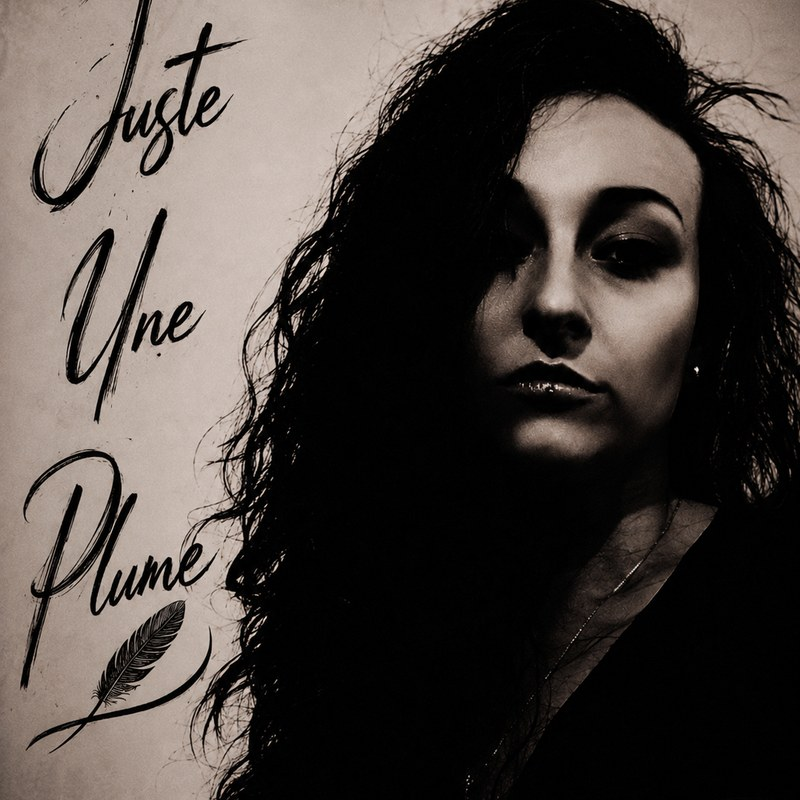
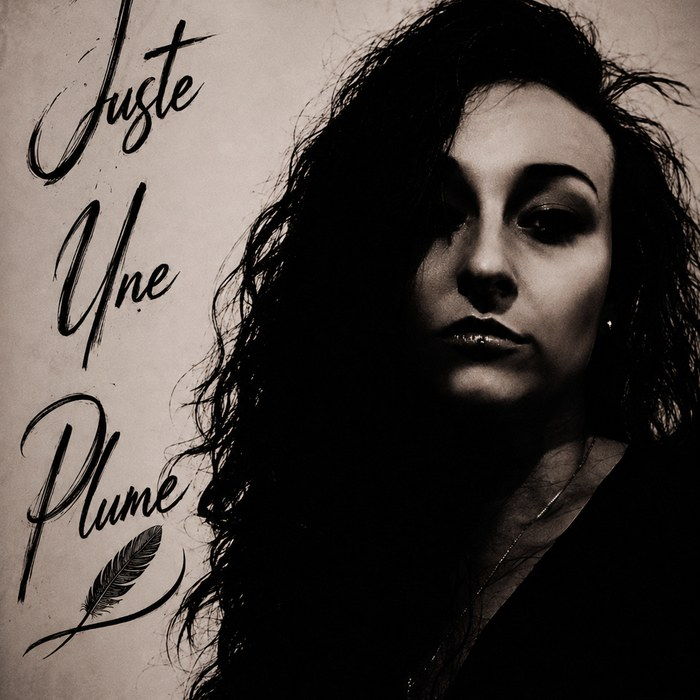
Add files via upload
fix maj v6.4.5 mpbp440 2026

diff --git a/sw.js b/sw.js
@@ -1,2 +1,10 @@
-/* MPBP440 Service Worker — V6.4.4 */
-const MPBP_CACHE="mpbp440-pwa-v6-4-4";const CORE_ASSETS=["/","/index.html","/site.css","/site.js","/music/index.html","/mpbp-tv/index.html","/manifest.webmanifest"];self.addEventListener("install",e=>{self.skipWaiting();e.waitUntil(caches.open(MPBP_CACHE).then(c=>c.addAll(CORE_ASSETS).catch(()=>{})))});self.addEventListener("activate",e=>{e.waitUntil(caches.keys().then(k=>Promise.all(k.filter(x=>x!==MPBP_CACHE).map(x=>caches.delete(x)))).then(()=>self.clients.claim()))});self.addEventListener("fetch",e=>{if(e.request.method!=="GET")return;e.respondWith(fetch(e.request,{cache:"no-store"}).then(r=>{let cp=r.clone();caches.open(MPBP_CACHE).then(c=>c.put(e.request,cp)).catch(()=>{});return r}).catch(()=>caches.match(e.request)))});
+/* MPBP440 Service Worker — V6.4.5 safe restore */
+const MPBP_CACHE="mpbp440-pwa-v6-4-5";
+const CORE_ASSETS=[
+ "/","/index.html","/refonte/refonte.css","/refonte/refonte.js",
+ "/data/music-catalog-v645.json","/data/music-catalog-v64.json","/data/music-library-v634.json","/data/releases.json",
+ "/music/index.html","/mpbp-tv/index.html"
+];
+self.addEventListener("install",e=>{self.skipWaiting();e.waitUntil(caches.open(MPBP_CACHE).then(c=>c.addAll(CORE_ASSETS).catch(()=>{})))});
+self.addEventListener("activate",e=>{e.waitUntil(caches.keys().then(k=>Promise.all(k.filter(x=>x!==MPBP_CACHE).map(x=>caches.delete(x)))).then(()=>self.clients.claim()))});
+self.addEventListener("fetch",e=>{if(e.request.method!=="GET")return;e.respondWith(fetch(e.request,{cache:"no-store"}).then(r=>{let cp=r.clone();caches.open(MPBP_CACHE).then(c=>c.put(e.request,cp)).catch(()=>{});return r}).catch(()=>caches.match(e.request)))});

diff --git a/mpbp-tv/index.html b/mpbp-tv/index.html
@@ -1,1 +1,1 @@
-<!DOCTYPE html><html lang="fr"><head><meta charset="UTF-8"><meta name="viewport" content="width=device-width,initial-scale=1"><title>MPBP TV — Officiel</title><link rel="manifest" href="/manifest.webmanifest"><link rel="stylesheet" href="/mpbp-tv/mpbp-tv.css?v=6.4.4"></head><body><header class="site-header"><nav class="nav"><a class="brand" href="/"><img src="/assets/brand/mpbp440-official-logo.jpg" alt="MPBP440"><span>M.P.B.P 440</span></a><div class="nav-links"><a href="/">Accueil</a><a href="/#label">Label</a><a href="/#sortie">Sortie</a><a href="/music/index.html#avenir">À venir</a><a href="/live/index.html">Événements</a><a href="/music/index.html">Morceaux</a><a href="/mpbp-tv/index.html">MPBP TV</a><a href="/#radio">Radio</a><a href="/notifications/index.html">Actus</a><a href="/#artistes">Artistes</a><a href="/#recherche">Recherche</a><a href="/#clips">Clips</a><a href="/#galerie">Galerie</a><a href="/application/index.html">Application</a><a href="/members/index.html">Mon espace</a><a href="/telechargements/index.html">Téléchargements</a></div></nav></header><main class="wrap"><section class="hero"><img class="hero-logo" src="/assets/brand/mpbp440-official-logo.jpg"><div><p class="sup">MPBP TV</p><h1>Clips & exclusivités</h1><p>L’espace vidéo officiel du label MPBP440 : clips, lives, archives et contenus inédits.</p></div></section><section class="section"><p class="sup">Clips officiels</p><h2>Vidéos du label</h2><div class="grid"><article class="card"><div class="card-body"><span class="badge">Bientôt</span><h3>Clips officiels</h3><p>Les clips publiés officiellement seront regroupés ici pour un accès simple depuis le site et l’application.</p><div class="actions"><a class="btn" href="/music/index.html">Voir Music Hub</a></div></div></article></div></section><section class="section"><p class="sup">Exclusivités</p><h2>Site & application</h2><div class="grid"><article class="card"><div class="card-body"><span class="badge">Exclusif</span><h3>Vidéos inédites</h3><p>Des vidéos exclusives MPBP440 seront ajoutées ici lorsqu’elles seront finalisées.</p></div></article></div></section><section class="section"><p class="sup">Lives & archives</p><h2>Événements vidéo</h2><div class="grid"><article class="card"><div class="card-body"><span class="badge">À venir</span><h3>Archives live</h3><p>Les futurs lives, annonces et sessions vidéo seront centralisés dans cette rubrique.</p><div class="actions"><a class="btn ghost" href="/live/index.html">Voir les événements</a></div></div></article></div></section></main><footer>© MPBP440 Corp.</footer><script src="/site.js?v=6.4.4"></script></body></html>
+<!DOCTYPE html><html lang="fr"><head><meta charset="UTF-8"><meta name="viewport" content="width=device-width,initial-scale=1"><title>MPBP TV</title><link rel="manifest" href="/manifest.webmanifest"><link rel="stylesheet" href="/refonte/refonte.css?v=6.4.5"></head><body><main class="mpbp-v645"><section class="mpbp-v645-hero"><img class="mpbp-v645-logo" src="/assets/brand/mpbp440-official-logo.jpg" alt="MPBP TV"><div><p class="sup">MPBP TV</p><h1>Clips & exclusivités</h1><p>L’espace vidéo officiel du label MPBP440 : clips, lives, archives et contenus inédits.</p></div></section><section class="mpbp-v645-section"><p class="sup">Clips officiels</p><h2>Vidéos du label</h2><div class="mpbp-v645-grid"><article class="mpbp-v645-card"><div class="mpbp-v645-body"><span class="mpbp-v645-badge">Bientôt</span><h3>Clips officiels</h3><p>Les clips publiés officiellement seront regroupés ici pour un accès simple depuis le site et l’application.</p><div class="mpbp-v645-actions"><a class="mpbp-v645-btn" href="/music/index.html">Voir Music Hub</a></div></div></article></div></section><section class="mpbp-v645-section"><p class="sup">Exclusivités</p><h2>Site & application</h2><p class="mpbp-v645-note">Des vidéos exclusives MPBP440 seront ajoutées ici lorsqu’elles seront finalisées.</p></section></main><script src="/refonte/refonte.js?v=6.4.5"></script></body></html>

diff --git a/music/index.html b/music/index.html
@@ -1,1 +1,1 @@
-<!DOCTYPE html><html lang="fr"><head><meta charset="UTF-8"><meta name="viewport" content="width=device-width,initial-scale=1"><title>Music Hub MPBP440</title><link rel="manifest" href="/manifest.webmanifest"><link rel="stylesheet" href="/music/music-hub.css?v=6.4.4"></head><body><header class="site-header"><nav class="nav"><a class="brand" href="/"><img src="/assets/brand/mpbp440-official-logo.jpg" alt="MPBP440"><span>M.P.B.P 440</span></a><div class="nav-links"><a href="/">Accueil</a><a href="/#label">Label</a><a href="/#sortie">Sortie</a><a href="/music/index.html#avenir">À venir</a><a href="/live/index.html">Événements</a><a href="/music/index.html">Morceaux</a><a href="/mpbp-tv/index.html">MPBP TV</a><a href="/#radio">Radio</a><a href="/notifications/index.html">Actus</a><a href="/#artistes">Artistes</a><a href="/#recherche">Recherche</a><a href="/#clips">Clips</a><a href="/#galerie">Galerie</a><a href="/application/index.html">Application</a><a href="/members/index.html">Mon espace</a><a href="/telechargements/index.html">Téléchargements</a></div></nav></header><main class="wrap"><section class="hero"><img class="hero-logo" src="/assets/brand/mpbp440-official-logo.jpg"><div><p class="sup">Music Hub</p><h1>Catalogue officiel</h1><p>Les morceaux disponibles, les sorties à venir et les fiches artistes officielles.</p></div></section><section class="section" id="avenir"><p class="sup">Calendrier</p><h2>Sorties à venir</h2><div class="grid"><article class="card"><img src="/assets/covers/reves-et-cauchemards.jpg" alt="Rêves et Cauchemards" onerror="this.src='/assets/brand/mpbp440-official-logo.jpg'"><div class="card-body"><span class="badge">À venir</span><h3>Rêves et Cauchemards</h3><p>Sparetdee Simon — sortie officielle le <strong>24/06/2026</strong>.</p><div class="actions"><a class="btn" href="/music/index.html#avenir">Suivre la sortie</a></div></div></article><article class="card"><img src="/assets/brand/mpbp440-official-logo.jpg" alt="Le Système" onerror="this.src='/assets/brand/mpbp440-official-logo.jpg'"><div class="card-body"><span class="badge">À venir</span><h3>Le Système</h3><p>Sparetdee Simon — sortie officielle le <strong>27/06/2026</strong>.</p><div class="actions"><a class="btn" href="/music/index.html#avenir">Suivre la sortie</a></div></div></article></div></section><section class="section" id="sparetdee"><p class="sup">Catalogue artiste</p><h2>Sparetdee Simon</h2><input id="searchInput" class="search" placeholder="Rechercher un titre..." oninput="filterCards()"><div class="grid"><article class="card" data-title="Je Vous Pousse Tous Sparetdee Simon"><img src="/assets/covers/je-vous-pousse-tous.jpg" alt="Je Vous Pousse Tous" onerror="this.src='/assets/brand/mpbp440-official-logo.jpg'"><div class="card-body"><span class="badge">Disponible</span><h3>Je Vous Pousse Tous</h3><p>Sparetdee Simon</p><div class="actions"><a class="btn" href="/artistes/sparetdee-simon.html">Page artiste</a><a class="btn ghost" href="https://music.apple.com/fr/artist/sparetdee-simon/1893053126" target="_blank" rel="noopener">Apple Music</a><a class="btn ghost" href="https://www.deezer.com/fr/artist/385051171" target="_blank" rel="noopener">Deezer</a></div></div></article><article class="card" data-title="L’Argent Sparetdee Simon"><img src="/assets/covers/l-argent.jpg" alt="L’Argent" onerror="this.src='/assets/brand/mpbp440-official-logo.jpg'"><div class="card-body"><span class="badge">Disponible</span><h3>L’Argent</h3><p>Sparetdee Simon</p><div class="actions"><a class="btn" href="/artistes/sparetdee-simon.html">Page artiste</a><a class="btn ghost" href="https://music.apple.com/fr/artist/sparetdee-simon/1893053126" target="_blank" rel="noopener">Apple Music</a><a class="btn ghost" href="https://www.deezer.com/fr/artist/385051171" target="_blank" rel="noopener">Deezer</a></div></div></article></div></section><section class="section" id="juste-une-plume"><p class="sup">Catalogue artiste</p><h2>Juste Une Plume</h2><div class="grid"><article class="card" data-title="Je Sais Que Tu Sais Juste Une Plume"><img src="/assets/covers/je-sais-que-tu-sais.jpg" alt="Je Sais Que Tu Sais" onerror="this.src='/assets/brand/mpbp440-official-logo.jpg'"><div class="card-body"><span class="badge">Disponible</span><h3>Je Sais Que Tu Sais</h3><p>Juste Une Plume</p><div class="actions"><a class="btn" href="/artistes/juste-une-plume.html">Page artiste</a></div></div></article></div></section></main><footer>© MPBP440 Corp.</footer><script src="/site.js?v=6.4.4"></script></body></html>
+<!DOCTYPE html><html lang="fr"><head><meta charset="UTF-8"><meta name="viewport" content="width=device-width,initial-scale=1"><title>Music Hub MPBP440</title><link rel="manifest" href="/manifest.webmanifest"><link rel="stylesheet" href="/refonte/refonte.css?v=6.4.5"></head><body><main class="mpbp-v645"><section class="mpbp-v645-hero"><img class="mpbp-v645-logo" src="/assets/brand/mpbp440-official-logo.jpg" alt="MPBP440"><div><p class="sup">Music Hub</p><h1>Catalogue officiel</h1><p>Les morceaux disponibles, les sorties à venir et les fiches artistes officielles.</p></div></section><section class="mpbp-v645-section"><p class="sup">Chargement</p><h2>Bibliothèque MPBP440</h2><p class="mpbp-v645-note">Le catalogue se charge automatiquement.</p></section></main><script src="/refonte/refonte.js?v=6.4.5"></script></body></html>